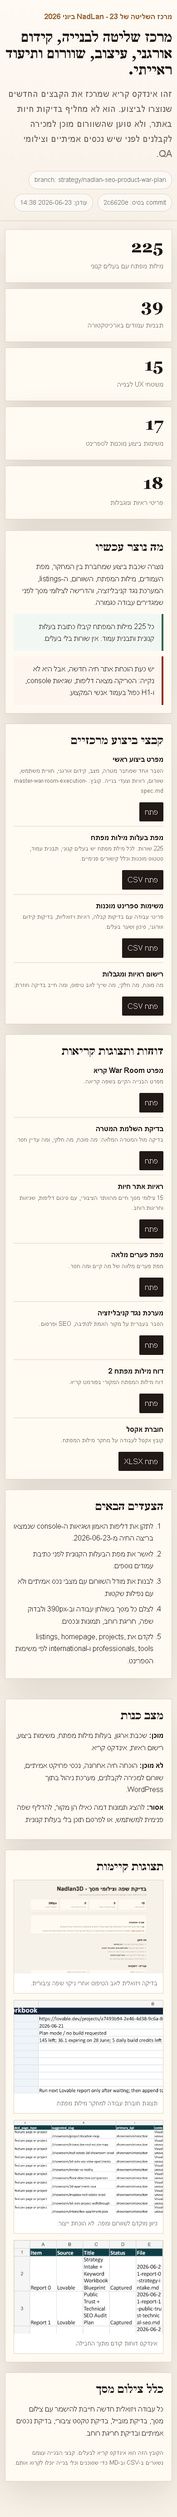
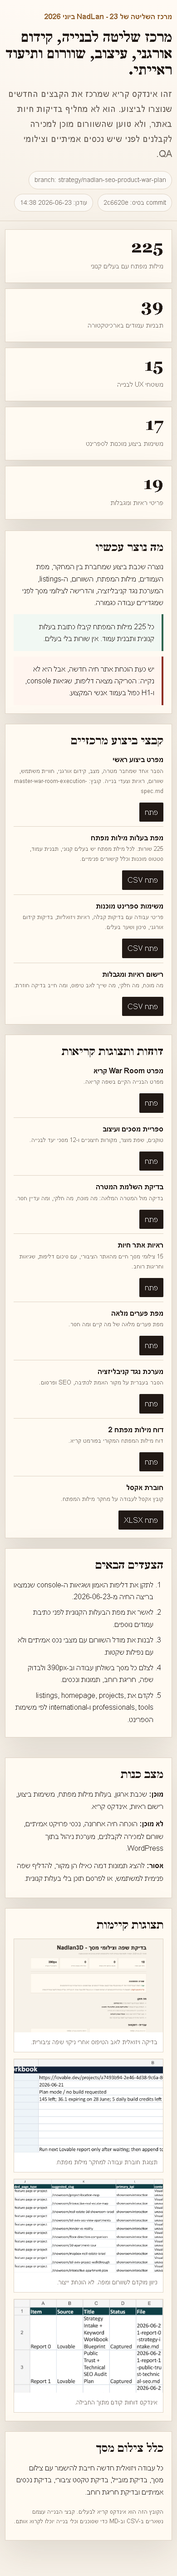
docs: add design system screen library

Changed region(s): [[0.0308, 0.0, 0.9846, 0.9635]]

diff --git a/strategy/war-room/design-system-screen-library-rtl.html b/strategy/war-room/design-system-screen-library-rtl.html
@@ -1,0 +1,35 @@
+<!doctype html>
+<html lang="he" dir="rtl">
+<head>
+<meta charset="utf-8"><meta name="viewport" content="width=device-width, initial-scale=1">
+<title>ספריית מסכים NadLan</title>
+<style>
+:root{--paper:#f7f1e8;--surface:#fffaf2;--ink:#211915;--muted:#746b63;--line:#ded2c3;--forest:#0f332c;--gold:#a7793b;--danger:#8f2e24;--ok:#2f654f}*{box-sizing:border-box}body{margin:0;background:var(--paper);color:var(--ink);font-family:Arial,'Noto Sans Hebrew',sans-serif;line-height:1.65}.wrap{width:min(1220px,calc(100% - 28px));margin:auto}header{padding:38px 0 26px;border-bottom:1px solid var(--line);background:linear-gradient(180deg,#fffaf4 0%,#f7f1e8 100%)}.eyebrow{color:var(--gold);font-weight:700;margin-bottom:10px}h1{font-family:Georgia,'Times New Roman',serif;font-size:clamp(36px,5.4vw,72px);line-height:1.04;margin:0 0 16px}.lead{font-size:19px;color:var(--muted);max-width:920px}.stats{display:grid;grid-template-columns:repeat(4,1fr);gap:12px;margin:22px 0}.stat{background:var(--surface);border:1px solid var(--line);padding:16px}.stat b{font-family:Georgia,'Times New Roman',serif;font-size:34px;display:block}.band{background:var(--surface);border:1px solid var(--line);padding:22px;margin:22px 0;box-shadow:0 16px 50px rgba(44,31,20,.09)}h2,h3{font-family:Georgia,'Times New Roman',serif;margin:0 0 12px}.tokens{display:grid;grid-template-columns:repeat(4,1fr);gap:10px}.token{border:1px solid var(--line);background:white;min-height:86px;padding:12px}.swatch{height:28px;border:1px solid var(--line);margin-bottom:8px}.sources{display:grid;grid-template-columns:repeat(3,1fr);gap:12px}.source{display:block;border:1px solid var(--line);background:white;padding:14px;text-decoration:none;color:inherit}.source span{display:block;color:var(--muted);font-size:14px}.blueprints{display:grid;grid-template-columns:repeat(3,1fr);gap:16px}.screen{background:var(--surface);border:1px solid var(--line);padding:18px;box-shadow:0 12px 34px rgba(44,31,20,.08)}.screen-head{display:flex;justify-content:space-between;gap:12px;border-bottom:1px solid var(--line);padding-bottom:10px;margin-bottom:12px}.screen-head span{color:var(--gold);font-weight:700;direction:ltr}.job{font-weight:700}.screen dl{display:grid;grid-template-columns:90px 1fr;gap:7px 10px;margin:0}.screen dt{color:var(--muted)}.screen dd{margin:0}.mockgrid{display:grid;grid-template-columns:1fr 1fr;gap:18px}.wire{border:1px solid var(--line);background:#fff;min-height:440px;padding:16px;position:relative;overflow:hidden}.wire.dark{background:var(--forest);color:white}.bar{height:36px;border:1px solid var(--line);background:#f2e8dc;margin-bottom:12px}.hero{height:110px;background:linear-gradient(135deg,#173d35,#d7b176);border-radius:4px;margin-bottom:12px}.row{display:grid;grid-template-columns:1fr 1fr;gap:10px;margin-bottom:10px}.block{height:70px;border:1px solid var(--line);background:#fbf6ef;padding:8px;color:var(--muted);font-size:13px}.dark .block{background:#153f36;color:#e9e1d6;border-color:#476b61}.media{height:150px;border:1px dashed var(--gold);display:grid;place-items:center;color:var(--muted);background:#fbf6ef;margin-bottom:12px;text-align:center}.label{display:inline-block;background:#f3ebde;border:1px solid var(--line);padding:5px 8px;margin:3px;font-size:13px}.cta{background:var(--ink);color:white;padding:10px 14px;display:inline-block;margin-top:8px}.warn{border-inline-start:4px solid var(--danger);background:#fff3ee;padding:14px;margin-top:16px}.ok{border-inline-start:4px solid var(--ok);background:#f0f8f3;padding:14px;margin-top:16px}@media(max-width:960px){.blueprints,.sources{grid-template-columns:1fr 1fr}.mockgrid{grid-template-columns:1fr}.stats,.tokens{grid-template-columns:1fr 1fr}}@media(max-width:560px){.wrap{width:calc(100% - 20px)}.blueprints,.sources,.stats,.tokens{grid-template-columns:1fr}.screen dl{grid-template-columns:1fr}.wire{min-height:auto}.row{grid-template-columns:1fr}}
+</style>
+</head>
+<body>
+<header><div class="wrap"><div class="eyebrow">NadLan - ספריית מסכים - 2026-06-23</div><h1>ספריית מסכים לבנייה, לא עוד דוח כללי.</h1><p class="lead">כאן מוגדרים השפה, הרכיבים והמסכים שצריך לבנות בפועל. כל מסך מחובר לקהל, לקידום אורגני, למובייל ולאמת נכסים, כדי שלא נבנה שוב תצוגה יפה בלי יכולת מכירה ואמון.</p></div></header>
+<main class="wrap">
+<div class="stats"><div class="stat"><b>12</b><span>מסכי יעד</span></div><div class="stat"><b>8</b><span>טוקנים מרכזיים</span></div><div class="stat"><b>6</b><span>מקורות חיצוניים</span></div><div class="stat"><b>390</b><span>שער מובייל חובה</span></div></div>
+<section class="band"><h2>כללי מותג</h2><p>שם העבודה הציבורי הוא NadLan. אין להשתמש בשם עברי סופי לפני בדיקה משפטית ודומיינית. הכיוון הוא פלטפורמת החלטות נדל"ן יוקרתית, רצינית ומבוססת ראיות, לא אתר ניסוי ולא הדגמת טכנולוגיה.</p><div class="ok">כל מסך חייב להראות מה אמיתי, מה חסר ומה דורש אישור מקור.</div><div class="warn">אסור להציג תמונות דמה, מודל, מחיר או זמינות כאילו הם חומר רשמי.</div></section>
+<section class="band"><h2>טוקנים</h2><div class="tokens"><div class="token"><div class="swatch" style="background:#f7f1e8"></div><strong>רקע</strong><br><span>#f7f1e8</span></div><div class="token"><div class="swatch" style="background:#fffaf2"></div><strong>משטח</strong><br><span>#fffaf2</span></div><div class="token"><div class="swatch" style="background:#211915"></div><strong>טקסט</strong><br><span>#211915</span></div><div class="token"><div class="swatch" style="background:#0f332c"></div><strong>יער</strong><br><span>#0f332c</span></div><div class="token"><div class="swatch" style="background:#a7793b"></div><strong>זהב</strong><br><span>#a7793b</span></div><div class="token"><div class="swatch" style="background:#746b63"></div><strong>משני</strong><br><span>#746b63</span></div><div class="token"><div class="swatch" style="background:#2f654f"></div><strong>מאומת</strong><br><span>#2f654f</span></div><div class="token"><div class="swatch" style="background:#8f2e24"></div><strong>חסם</strong><br><span>#8f2e24</span></div></div></section>
+<section class="band"><h2>מקורות מוצר חיצוניים</h2><div class="sources"><a class='source' href='https://www.zillow.com/3d-home/'><strong>Zillow 3D Home</strong><span>סיורים ותוכניות קומה אינטראקטיביות כנכס listing אמיתי.</span></a>
+<a class='source' href='https://www.zillow.com/agents/showcase/'><strong>Zillow Showcase</strong><span>עיצוב listing פרימיום, מיתוג ומיקום חזק בחיפוש ובמפה.</span></a>
+<a class='source' href='https://www.zillow.com/news/zillow-showcase-brings-listings-to-life/'><strong>Zillow SkyTour</strong><span>הקשר חיצוני, גובה, זוויות וסביבה כחלק מהחוויה.</span></a>
+<a class='source' href='https://matterport.com/'><strong>Matterport</strong><span>סיורי 3D, תוכניות קומה ונכסי שיווק מתוך תיעוד אחד.</span></a>
+<a class='source' href='https://www.homes.com/solutions/matterport'><strong>Homes.com Matterport</strong><span>דיגיטל twin וחוויית סיור עם תוכניות קומה מפורטות.</span></a>
+<a class='source' href='https://www.jamesedition.com/real_estate'><strong>JamesEdition</strong><span>אינדקס יוקרה בינלאומי עם סינון, תמונות חזקות ואמון סוכן.</span></a></div></section>
+<section class="band"><h2>שרטוטי מסכים</h2><div class="mockgrid"><div class="wire"><div class="bar"></div><div class="hero"></div><span class="label">חיפוש עיר או פרויקט</span><span class="label">פרויקטים</span><span class="label">אנשי מקצוע</span><div class="row"><div class="block">כרטיס פרויקט עם מקור נכס</div><div class="block">כלי החלטה עם מקור תאריך</div></div><div class="row"><div class="block">מסלול משקיע מחו"ל</div><div class="block">אמון וקניבליזציה</div></div><a class="cta">כניסה לפרויקטים</a></div><div class="wire dark"><div class="media">מודל או חזית רשמית בלבד</div><span class="label">חומר רשמי</span><span class="label">אומדן לא מחייב</span><div class="block">כרטיס דירה: קומה, חדרים, שטח, כיוון, מקור</div><div class="block">מפה, נוף, סיור ותוכנית רק אם קיימים</div><a class="cta">בקשת פרטים</a></div></div></section>
+<section class="band"><h2>ספריית מסכים מלאה</h2><div class="blueprints"><article class='screen'><div class='screen-head'><span>DS-001</span><strong>מערכת מותג</strong></div><p class='job'>לזהות את NadLan כפלטפורמת החלטות נדל&quot;ן יוקרתית ורצינית</p><dl><dt>קהל</dt><dd>כל המשתמשים</dd><dt>מבנה</dt><dd>לוגו, favicon, טיפוגרפיה, צבעים, כפתורים, טפסים ותוויות אמון</dd><dt>רכיבים</dt><dd>Header, ניווט, מעבר שפה, כרטיס, טופס, כפתור, תווית מקור</dd><dt>אמת נכסים</dt><dd>סימן המותג הוא כיוון עיצובי, לא אישור משפטי סופי</dd><dt>קידום</dt><dd>לא להשתמש בשם מותג תפוס בלי בדיקה</dd><dt>מובייל</dt><dd>Header נשבר נקי ב-390px בלי חפיפה</dd></dl></article>
+<article class='screen'><div class='screen-head'><span>DS-002</span><strong>דף הבית</strong></div><p class='job'>לנתב מהר לפרויקטים, קנייה, שכירות, אנשי מקצוע, כלים ומסלול משקיעים</p><dl><dt>קהל</dt><dd>קונים, מוכרים, קבלנים ומשקיעים</dd><dt>מבנה</dt><dd>חיפוש, פרויקטים, ערים, כלים, אנשי מקצוע, אמון ומסלול באנגלית</dd><dt>רכיבים</dt><dd>טאבי כוונה, חיפוש, כרטיסי נתיב, כרטיסי פרויקט, אזור הוכחות</dd><dt>אמת נכסים</dt><dd>מספרים וספירות מוצגים רק אם הם מאומתים</dd><dt>קידום</dt><dd>H1 יחיד, קישורים פנימיים ל-hubs, schema אתר וארגון</dd><dt>מובייל</dt><dd>חיפוש ראשון, כרטיסים בטור אחד, בלי hero ריק</dd></dl></article>
+<article class='screen'><div class='screen-head'><span>DS-003</span><strong>חיפוש listings</strong></div><p class='job'>להשוות מלאי מהר בלי להמציא נכסים</p><dl><dt>קהל</dt><dd>קונים ושוכרים</dd><dt>מבנה</dt><dd>פילטרים, מפה או רשימה, מספר תוצאות, כרטיסים, שמירת חיפוש ומצב ריק</dd><dt>רכיבים</dt><dd>Bottom sheet לפילטרים, כרטיס תוצאה, מצב מפה, שמירה, השוואה, יצירת קשר</dd><dt>אמת נכסים</dt><dd>כל listing צריך תמונה, מקור ותאריך עדכון או תווית חסר</dd><dt>קידום</dt><dd>קנוניקל לעמודי עיר, noindex לפילטרים דקים, ItemList רק כשתקף</dd><dt>מובייל</dt><dd>פילטרים במגירה, chips גלויים, מפה מאחורי טאב</dd></dl></article>
+<article class='screen'><div class='screen-head'><span>DS-004</span><strong>עמוד listing</strong></div><p class='job'>לבדוק נכס אחד וליצור קשר עם הקשר מלא</p><dl><dt>קהל</dt><dd>קונה, שוכר או משקיע</dd><dt>מבנה</dt><dd>מדיה, עובדות, מפה, מחיר, עדכון אחרון, מקור, dock יצירת קשר</dd><dt>רכיבים</dt><dd>גלריה, טבלת עובדות, תג מקור, WhatsApp, השוואה, שמירה</dd><dt>אמת נכסים</dt><dd>אין תמונה או מחיר בלי מקור</dd><dt>קידום</dt><dd>Offer/Residence רק עם נתונים מאומתים, breadcrumb וקנוניקל</dd><dt>מובייל</dt><dd>Dock יצירת קשר לא מכסה תוכן</dd></dl></article>
+<article class='screen'><div class='screen-head'><span>DS-005</span><strong>קטלוג פרויקטים</strong></div><p class='job'>למצוא פרויקטים חדשים ולראות מיד כמה הנכסים שלהם אמינים</p><dl><dt>קהל</dt><dd>קבלנים, קונים ומשקיעים מחו&quot;ל</dd><dt>מבנה</dt><dd>סינון עיר, יזם, סטטוס, מחיר משוער, שלב ואמת נכסים</dd><dt>רכיבים</dt><dd>כרטיס פרויקט, מד מוכנות נכסים, תג מקור, פילטר עיר, chips למשקיע</dd><dt>אמת נכסים</dt><dd>רשמי, קונספט או חסר מוצג לכל פרויקט</dd><dt>קידום</dt><dd>בעלות קנונית ל-hub פרויקטים ולעמודי עיר</dd><dt>מובייל</dt><dd>כרטיס פרויקט לא חותך מידע קריטי</dd></dl></article>
+<article class='screen'><div class='screen-head'><span>DS-006</span><strong>עמוד פרויקט</strong></div><p class='job'>להבין את הפרויקט לפני הכניסה לשוורום</p><dl><dt>קהל</dt><dd>קונים, קבלנים ומשקיעים</dd><dt>מבנה</dt><dd>עובדות, יזם, מיקום, מקור, כלל זמינות, CTA לשוורום ואמת נכסים</dd><dt>רכיבים</dt><dd>סרגל עובדות, מקור, תגי מצב, CTA, אנשי מקצוע קשורים</dd><dt>אמת נכסים</dt><dd>נדרש מקור רשמי. שדות חסרים מוצגים כחסרים</dd><dt>קידום</dt><dd>Project schema רק לעובדות מאומתות</dd><dt>מובייל</dt><dd>עובדות לפני שוורום, CTA נגיש ולא מכסה</dd></dl></article>
+<article class='screen'><div class='screen-head'><span>DS-007</span><strong>שוורום תלת ממד</strong></div><p class='job'>לבחור דירה, לראות הקשר, נוף, סיור ותוכנית, ואז לשלוח ליד איכותי</p><dl><dt>קהל</dt><dd>קבלנים, קונים ומשקיעים מחו&quot;ל</dd><dt>מבנה</dt><dd>מודל או חזית, בחירת דירה, כרטיס דירה, נוף, מפה, סיור, ליד</dd><dt>רכיבים</dt><dd>פאנל אמת נכסים, selector, כרטיס דירה, slot לסיור, slot למפה, מסלול יועצים</dd><dt>אמת נכסים</dt><dd>מודל, חזית, תוכנית וסיור מסווגים כרשמי, קונספט, חסר או שבור</dd><dt>קידום</dt><dd>לא לאנדקס בנפרד אם אין תוכן ייחודי וסריק</dd><dt>מובייל</dt><dd>מודל למעלה, כרטיס נבחר מתחת, בלי overlay שחוסם לחיצות</dd></dl></article>
+<article class='screen'><div class='screen-head'><span>DS-008</span><strong>אנשי מקצוע</strong></div><p class='job'>למצוא עזרה מאומתת בלי לערבב בין אמון למיקום בתשלום</p><dl><dt>קהל</dt><dd>קונים, מוכרים, קבלנים ומשקיעים</dd><dt>מבנה</dt><dd>קטגוריה, עיר, התמחות, מדיניות אימות, route לליד</dd><dt>רכיבים</dt><dd>כרטיס בעל מקצוע, תג רישום, גילוי, CTA, מצב ריק</dd><dt>אמת נכסים</dt><dd>רישיון, פנקס או מקור נדרש לפני טענה חזקה</dd><dt>קידום</dt><dd>Person/LocalBusiness רק כשמאומת, לתקן H1 כפול</dd><dt>מובייל</dt><dd>מגירת פילטרים, כרטיסים בטור אחד, בלי layout רחב כפוי</dd></dl></article>
+<article class='screen'><div class='screen-head'><span>DS-009</span><strong>כלים ומחשבונים</strong></div><p class='job'>להעריך החלטות בלי להציג אותן כשמאות, ייעוץ משפטי או ייעוץ פיננסי</p><dl><dt>קהל</dt><dd>קונים, מוכרים ומשקיעים</dd><dt>מבנה</dt><dd>בחירת כלי, קלטים, הנחות, טווח תוצאה, מקור ותאריך, route לאיש מקצוע</dd><dt>רכיבים</dt><dd>טופס שלבים, פאנל הנחות, כרטיס תוצאה, תג מקור, CTA</dd><dt>אמת נכסים</dt><dd>נוסחה ומקור רשמי או תאריך מקור נדרשים</dd><dt>קידום</dt><dd>SoftwareApplication ו-FAQ רק כשהתוכן גלוי ומאומת</dd><dt>מובייל</dt><dd>קלטים גדולים, הנחות גלויות</dd></dl></article>
+<article class='screen'><div class='screen-head'><span>DS-010</span><strong>משקיעים מחו&quot;ל</strong></div><p class='job'>להסביר רכישה מרחוק, פרויקטים, מס, משכנתא וקונסיירז באנגלית אמינה</p><dl><dt>קהל</dt><dd>רוכשים מחו&quot;ל וישראלים שמשקיעים בחו&quot;ל</dd><dt>מבנה</dt><dd>EN hub, ערים, פרויקטים, מס, משכנתא, משפט, concierge, שפה</dd><dt>רכיבים</dt><dd>מעבר שפה, כרטיסי חשש לפי מדינה, CTA, פאנל מקור</dd><dt>אמת נכסים</dt><dd>מס, משפט וכספים דורשים בדיקה לפני טענה חזקה</dd><dt>קידום</dt><dd>hreflang וקנוניקל, בלי תרגום אוטומטי דל</dd><dt>מובייל</dt><dd>LTR טבעי, לא עברית הפוכה</dd></dl></article>
+<article class='screen'><div class='screen-head'><span>DS-011</span><strong>אינטייק לקבלנים</strong></div><p class='job'>להעלות נכסי פרויקט רשמיים ולראות מה חסר לפני פרסום</p><dl><dt>קהל</dt><dd>יזמים ומשווקי פרויקטים</dd><dt>מבנה</dt><dd>זהות פרויקט, העלאות מדיה, נתוני דירות, מקורות, מסלול תשלום, סטטוס אישור</dd><dt>רכיבים</dt><dd>Checklist נכסים, שורות העלאה, score מוכנות, tier, הערות בודק</dd><dt>אמת נכסים</dt><dd>כל נכס מקבל סטטוס: רשמי, קונספט, חסר או נדחה</dd><dt>קידום</dt><dd>פרטי עד אישור, noindex</dd><dt>מובייל</dt><dd>טאבלט אפשרי, desktop הוא ראשי</dd></dl></article>
+<article class='screen'><div class='screen-head'><span>DS-012</span><strong>Admin War Room</strong></div><p class='job'>לראות בעלות מילות מפתח, דוחות, צילומים, סטטוס בנייה ושערי פרסום</p><dl><dt>קהל</dt><dd>בעלים, עורך וסוכנים</dd><dt>מבנה</dt><dd>Keyword registry, evidence, screenshots, backlog, החלטות ושערי פרסום</dd><dt>רכיבים</dt><dd>לוח סטטוס, טבלת registry, גלריית צילומים, יומן החלטות</dd><dt>אמת נכסים</dt><dd>פרטי בלבד, לא ציבורי</dd><dt>קידום</dt><dd>Admin בלבד, noindex והרשאות</dd><dt>מובייל</dt><dd>Desktop ראשי, mobile קריא לסקירה</dd></dl></article></div></section>
+</main></body></html>

diff --git a/strategy/war-room/objective-completion-audit-rtl.html b/strategy/war-room/objective-completion-audit-rtl.html
@@ -1,11 +1,11 @@
-<!doctype html><html lang="he" dir="rtl"><head><meta charset="utf-8"><meta name="viewport" content="width=device-width, initial-scale=1"><title>בדיקת השלמת מרכז השליטה</title><style>:root{--paper:#f7f1e8;--ink:#211915;--muted:#746b63;--line:#ded2c3;--card:#fffaf2;--ok:#2f654f;--warn:#8f5d2a}*{box-sizing:border-box}body{margin:0;background:var(--paper);color:var(--ink);font-family:Arial,'Noto Sans Hebrew',sans-serif;line-height:1.65}.wrap{width:min(1120px,calc(100% - 28px));margin:auto}header{padding:36px 0 24px;border-bottom:1px solid var(--line)}h1{font-family:Georgia,'Times New Roman',serif;font-size:clamp(34px,5vw,64px);line-height:1.05;margin:0 0 14px}.lead{color:var(--muted);font-size:19px;max-width:920px}.summary{display:grid;grid-template-columns:repeat(3,1fr);gap:12px;margin:24px 0}.box{background:var(--card);border:1px solid var(--line);padding:18px}.box b{font-size:34px;font-family:Georgia,'Times New Roman',serif}.req{background:var(--card);border:1px solid var(--line);padding:18px;margin:14px 0;box-shadow:0 14px 40px rgba(44,31,20,.08)}.req.ok{border-inline-start:5px solid var(--ok)}.req.warn{border-inline-start:5px solid var(--warn)}h2,h3{font-family:Georgia,'Times New Roman',serif;margin:0 0 10px}code{direction:ltr;unicode-bidi:embed;display:inline-block;max-width:100%;overflow-wrap:anywhere;color:#5f554e}.links a{display:inline-block;background:#211915;color:#fff;padding:9px 12px;margin:5px 0 5px 8px;text-decoration:none}@media(max-width:760px){.summary{grid-template-columns:1fr}}</style></head><body><header><div class="wrap"><h1>בדיקת השלמת מרכז השליטה מול המטרה המלאה.</h1><p class="lead">הקובץ הזה לא מגדיר הצלחה מחדש. הוא בודק את המטרה המקורית פריט-פריט ומפריד בין מה שמוכח, מה שחלקי, ומה שעוד חסר.</p><div class="links"><a href="owner-output-index-rtl.html">אינדקס ביצוע</a><a href="current-site-evidence-2026-06-23-rtl.html">ראיות אתר חיות</a><a href="objective-completion-audit.csv">CSV</a></div></div></header><main class="wrap"><div class="summary"><div class="box"><b>11</b><br>דרישות שנבדקו</div><div class="box"><b>5</b><br>מוכחות או מיובאות</div><div class="box"><b>6</b><br>חלקיות או לא מוכנות לייצור</div></div><article class='req warn'><h3>REQ-01 - ראיות אתר חיות</h3><p><b>סטטוס:</b> חלקי</p><p><b>ראיה:</b> <code>docs/qa/screenshots/stage1-public-trust-current-2026-06-23/report.json; strategy/war-room/current-site-evidence-2026-06-23-rtl.html</code></p><p><b>מה זה מוכיח:</b> יש ריצה חיה חדשה עם 15 צילומי מסך מחמישה משטחי אתר בשלושה גדלים.</p><p><b>פער:</b> הריצה עדיין מצאה 78 התראות דליפה, 33 התראות גלויות ו-3 שגיאות console. לכן זה לא אישור אמון סופי.</p><p><b>צעד הבא:</b> לתקן דליפות גלויות, את שגיאת אנשי המקצוע, ואת כפילות ה-H1, ואז להריץ שוב.</p></article>
+<!doctype html><html lang="he" dir="rtl"><head><meta charset="utf-8"><meta name="viewport" content="width=device-width, initial-scale=1"><title>בדיקת השלמת מרכז השליטה</title><style>:root{--paper:#f7f1e8;--ink:#211915;--muted:#746b63;--line:#ded2c3;--card:#fffaf2;--ok:#2f654f;--warn:#8f5d2a}*{box-sizing:border-box}body{margin:0;background:var(--paper);color:var(--ink);font-family:Arial,'Noto Sans Hebrew',sans-serif;line-height:1.65}.wrap{width:min(1120px,calc(100% - 28px));margin:auto}header{padding:36px 0 24px;border-bottom:1px solid var(--line)}h1{font-family:Georgia,'Times New Roman',serif;font-size:clamp(34px,5vw,64px);line-height:1.05;margin:0 0 14px}.lead{color:var(--muted);font-size:19px;max-width:920px}.summary{display:grid;grid-template-columns:repeat(3,1fr);gap:12px;margin:24px 0}.box{background:var(--card);border:1px solid var(--line);padding:18px}.box b{font-size:34px;font-family:Georgia,'Times New Roman',serif}.req{background:var(--card);border:1px solid var(--line);padding:18px;margin:14px 0;box-shadow:0 14px 40px rgba(44,31,20,.08)}.req.ok{border-inline-start:5px solid var(--ok)}.req.warn{border-inline-start:5px solid var(--warn)}h2,h3{font-family:Georgia,'Times New Roman',serif;margin:0 0 10px}code{direction:ltr;unicode-bidi:embed;display:inline-block;max-width:100%;overflow-wrap:anywhere;color:#5f554e}.links a{display:inline-block;background:#211915;color:#fff;padding:9px 12px;margin:5px 0 5px 8px;text-decoration:none}@media(max-width:760px){.summary{grid-template-columns:1fr}}</style></head><body><header><div class="wrap"><h1>בדיקת השלמת מרכז השליטה מול המטרה המלאה.</h1><p class="lead">הקובץ הזה לא מגדיר הצלחה מחדש. הוא בודק את המטרה המקורית פריט-פריט ומפריד בין מה שמוכח, מה שחלקי, ומה שעוד חסר.</p><div class="links"><a href="owner-output-index-rtl.html">אינדקס ביצוע</a><a href="current-site-evidence-2026-06-23-rtl.html">ראיות אתר חיות</a><a href="design-system-screen-library-rtl.html">ספריית מסכים</a><a href="objective-completion-audit.csv">CSV</a></div></div></header><main class="wrap"><div class="summary"><div class="box"><b>11</b><br>דרישות שנבדקו</div><div class="box"><b>6</b><br>מוכחות או מפרט נוכחי</div><div class="box"><b>5</b><br>חלקיות או לא מוכנות לייצור</div></div><article class='req warn'><h3>REQ-01 - ראיות אתר חיות</h3><p><b>סטטוס:</b> חלקי</p><p><b>ראיה:</b> <code>docs/qa/screenshots/stage1-public-trust-current-2026-06-23/report.json; strategy/war-room/current-site-evidence-2026-06-23-rtl.html</code></p><p><b>מה זה מוכיח:</b> יש ריצה חיה חדשה עם 15 צילומי מסך מחמישה משטחי אתר בשלושה גדלים.</p><p><b>פער:</b> הריצה עדיין מצאה 78 התראות דליפה, 33 התראות גלויות ו-3 שגיאות console. לכן זה לא אישור אמון סופי.</p><p><b>צעד הבא:</b> לתקן דליפות גלויות, את שגיאת אנשי המקצוע ואת כפילות ה-H1, ואז להריץ שוב.</p></article>
 <article class='req ok'><h3>REQ-02 - תוצרי Lovable ואסטרטגיה חיצונית</h3><p><b>סטטוס:</b> קיים ומיובא</p><p><b>ראיה:</b> <code>handoff/lovable/2026-06-23-war-room-sync/source-manifest.md; handoff/lovable/2026-06-23-war-room-sync/exports/</code></p><p><b>מה זה מוכיח:</b> תוצרי Lovable מיובאים לריפו, וה-commit של strategy-hub מתועד.</p><p><b>פער:</b> לא היה commit חדש מ-Lovable בריצה הזאת. Lovable הוא כלי עזר, לא מקור האמת.</p><p><b>צעד הבא:</b> לייבא מחדש רק כשיש commit חדש ב-GitHub של strategy-hub.</p></article>
 <article class='req ok'><h3>REQ-03 - ארכיטקטורת עמודים</h3><p><b>סטטוס:</b> מוכח כמפרט נוכחי</p><p><b>ראיה:</b> <code>strategy/war-room/page-architecture-map.csv</code></p><p><b>מה זה מוכיח:</b> יש 39 תבניות עמודים: כסף, תמיכה, כלים, פרויקטים, אנשי מקצוע, משקיעים מחו&quot;ל ואמון.</p><p><b>פער:</b> זו מפת בנייה. היא לא מוכיחה שכל route כבר קיים באתר החי.</p><p><b>צעד הבא:</b> לקשור כל PR וכל תוכן ל-page_id.</p></article>
 <article class='req ok'><h3>REQ-04 - מיפוי מילת מפתח לעמוד</h3><p><b>סטטוס:</b> מוכח כמפרט נוכחי</p><p><b>ראיה:</b> <code>strategy/war-room/keyword-to-page-owner.csv</code></p><p><b>מה זה מוכיח:</b> כל 225 מילות המפתח קיבלו בעלים קנוני, כתובת, תבנית, סטטוס וכלל קישורים.</p><p><b>פער:</b> עדיין צריך אימות GSC/Semrush לפני תחזיות הכנסה ותיעדוף סופי.</p><p><b>צעד הבא:</b> להוסיף טבלאות GSC/Semrush ולעבור על סדר העדיפות.</p></article>
-<article class='req warn'><h3>REQ-05 - מפרט listings</h3><p><b>סטטוס:</b> קיים, לא בנוי</p><p><b>ראיה:</b> <code>strategy/10-listings-ux-spec.md; strategy/war-room/ux-build-spec.csv; strategy/war-room/sprint-ready-backlog.csv</code></p><p><b>מה זה מוכיח:</b> דרישות card, search, detail ושקיפות מסחרית מתועדות.</p><p><b>פער:</b> זה לא מוכיח שממשק listings ייצורי כבר נבנה או אושר ויזואלית.</p><p><b>צעד הבא:</b> לבנות slice ראשון של listing card/search ולצלם mobile ו-desktop.</p></article>
-<article class='req warn'><h3>REQ-06 - מפרט פרויקט ושוורום</h3><p><b>סטטוס:</b> קיים, לא מוכן לקבלנים</p><p><b>ראיה:</b> <code>strategy/11-project-showroom-3d-spec.md; docs/qa/screenshots/stage1-public-trust-current-2026-06-23/dimri-yama-sde-dov-mobile-390.png</code></p><p><b>מה זה מוכיח:</b> דרישות השוורום קיימות ויש ראיית מצב חיה לעמוד פרויקט.</p><p><b>פער:</b> העמוד החי עדיין לא ברמת מכירה לקבלן. חסרים נכסים אמיתיים ומודל מצבים מלא.</p><p><b>צעד הבא:</b> לבנות state model עם asset truth ולצלם כל מצב.</p></article>
-<article class='req warn'><h3>REQ-07 - כיוון עיצובי עם רפרנסים ותצוגות</h3><p><b>סטטוס:</b> חלקי</p><p><b>ראיה:</b> <code>strategy/lovable/preview-3d-map-showroom.png; strategy/war-room/nadlan-war-room-spec-rtl.html; handoff/codex/2026-06-23-public-language-cleanup/exports/public-language-cleanup-visual-qa.html</code></p><p><b>מה זה מוכיח:</b> יש רפרנסים, צילומי prototype וכיוון עיצובי קריא.</p><p><b>פער:</b> עדיין אין מערכת מותג סופית, תמונות פרויקט אמיתיות, החלטת favicon/logo וספריית מסכים WordPress-ready.</p><p><b>צעד הבא:</b> לייצר design system סופי וספריית מסכים לפני redesign ייצור.</p></article>
+<article class='req warn'><h3>REQ-05 - מפרט listings</h3><p><b>סטטוס:</b> קיים, לא בנוי</p><p><b>ראיה:</b> <code>strategy/10-listings-ux-spec.md; strategy/war-room/ux-build-spec.csv; strategy/war-room/sprint-ready-backlog.csv; strategy/war-room/design-system-screen-library-rtl.html</code></p><p><b>מה זה מוכיח:</b> דרישות card, search, detail, שקיפות מסחרית ומסך יעד מתועדות.</p><p><b>פער:</b> זה לא מוכיח שממשק listings ייצורי כבר נבנה או אושר ויזואלית באתר.</p><p><b>צעד הבא:</b> לבנות slice ראשון של listing card/search ולצלם mobile ו-desktop.</p></article>
+<article class='req warn'><h3>REQ-06 - מפרט פרויקט ושוורום</h3><p><b>סטטוס:</b> קיים, לא מוכן לקבלנים</p><p><b>ראיה:</b> <code>strategy/11-project-showroom-3d-spec.md; strategy/war-room/design-system-screen-library-rtl.html; docs/qa/screenshots/stage1-public-trust-current-2026-06-23/dimri-yama-sde-dov-mobile-390.png</code></p><p><b>מה זה מוכיח:</b> דרישות השוורום קיימות ויש ראיית מצב חיה לעמוד פרויקט וספריית מסך יעד.</p><p><b>פער:</b> העמוד החי עדיין לא ברמת מכירה לקבלן. חסרים נכסים אמיתיים ומודל מצבים מלא.</p><p><b>צעד הבא:</b> לבנות state model עם asset truth ולצלם כל מצב.</p></article>
+<article class='req ok'><h3>REQ-07 - כיוון עיצובי עם רפרנסים ותצוגות</h3><p><b>סטטוס:</b> מפרט נוכחי קיים, לא ייצור</p><p><b>ראיה:</b> <code>strategy/war-room/design-system-screen-library-rtl.html; strategy/war-room/design-system-screen-library.csv; strategy/war-room/design-system-screen-library-preview.png; strategy/lovable/preview-3d-map-showroom.png</code></p><p><b>מה זה מוכיח:</b> יש טוקנים, חוקי שפה ציבורית, מקורות מוצר חיצוניים, 12 מסכי יעד וצילומי בדיקה.</p><p><b>פער:</b> זה עדיין מפרט. הוא לא מחליף יישום WordPress, נכסי פרויקט אמיתיים או אישור משפטי ומיתוג סופי.</p><p><b>צעד הבא:</b> להשתמש בספריית המסכים כחוזה לבניית homepage, listings, projects ו-showroom.</p></article>
 <article class='req ok'><h3>REQ-08 - Backlog לביצוע</h3><p><b>סטטוס:</b> מוכח כמפרט נוכחי</p><p><b>ראיה:</b> <code>strategy/war-room/sprint-ready-backlog.csv; strategy/implementation-plan.csv</code></p><p><b>מה זה מוכיח:</b> יש 17 משימות ספרינט מוכנות ותוכנית יישום רחבה יותר.</p><p><b>פער:</b> Backlog הוא תוכנית עבודה, לא הוכחת ביצוע.</p><p><b>צעד הבא:</b> לבצע לפי סדר: אמון P0, אישור keyword registry, שוורום, listings, homepage.</p></article>
-<article class='req ok'><h3>REQ-09 - תוצרים קריאים לבעלים</h3><p><b>סטטוס:</b> מוכח כמפרט נוכחי</p><p><b>ראיה:</b> <code>strategy/war-room/owner-output-index-rtl.html; strategy/war-room/objective-completion-audit-rtl.html; strategy/war-room/current-site-evidence-2026-06-23-rtl.html</code></p><p><b>מה זה מוכיח:</b> יש HTML קריא לבעלים שמרכז את המפרט, הראיות והפערים.</p><p><b>פער:</b> חלק מהקבצים נשארים CSV/MD בכוונה כדי שסוכנים וכלי בנייה יוכלו לקרוא אותם.</p><p><b>צעד הבא:</b> להמשיך ליצור תקצירי HTML בעברית לכל חבילת עבודה גדולה.</p></article>
-<article class='req warn'><h3>REQ-10 - מוכנות לבנייה צעד-אחר-צעד</h3><p><b>סטטוס:</b> חלקי</p><p><b>ראיה:</b> <code>strategy/war-room/master-war-room-execution-spec.md; strategy/war-room/sprint-ready-backlog.csv</code></p><p><b>מה זה מוכיח:</b> יש סדר פעולות ושערי קבלה מעשיים.</p><p><b>פער:</b> לא כל תנאי הקדם סגורים: אמון חי, נכסים אמיתיים, עיצוב סופי ומערכת admin עדיין פתוחים.</p><p><b>צעד הבא:</b> להשתמש בשערי הספרינט כרשימת ביצוע מחייבת.</p></article>
+<article class='req ok'><h3>REQ-09 - תוצרים קריאים לבעלים</h3><p><b>סטטוס:</b> מוכח כמפרט נוכחי</p><p><b>ראיה:</b> <code>strategy/war-room/owner-output-index-rtl.html; strategy/war-room/objective-completion-audit-rtl.html; strategy/war-room/current-site-evidence-2026-06-23-rtl.html; strategy/war-room/design-system-screen-library-rtl.html</code></p><p><b>מה זה מוכיח:</b> יש HTML קריא לבעלים שמרכז את המפרט, הראיות, הפערים וספריית המסכים.</p><p><b>פער:</b> חלק מהקבצים נשארים CSV/MD בכוונה כדי שסוכנים וכלי בנייה יוכלו לקרוא אותם.</p><p><b>צעד הבא:</b> להמשיך ליצור תקצירי HTML בעברית לכל חבילת עבודה גדולה.</p></article>
+<article class='req warn'><h3>REQ-10 - מוכנות לבנייה צעד-אחר-צעד</h3><p><b>סטטוס:</b> חלקי</p><p><b>ראיה:</b> <code>strategy/war-room/master-war-room-execution-spec.md; strategy/war-room/sprint-ready-backlog.csv; strategy/war-room/design-system-screen-library.csv</code></p><p><b>מה זה מוכיח:</b> יש סדר פעולות, שערי קבלה וספריית מסכים לבנייה.</p><p><b>פער:</b> לא כל תנאי הקדם סגורים: אמון חי, נכסים אמיתיים ומערכת admin עדיין פתוחים.</p><p><b>צעד הבא:</b> להשתמש בשערי הספרינט ובספריית המסכים כרשימת ביצוע מחייבת.</p></article>
 <article class='req warn'><h3>REQ-11 - שיטה חוזרת לאתרים אחרים</h3><p><b>סטטוס:</b> חלקי</p><p><b>ראיה:</b> <code>handoff/shared-knowledge/skills/; C:/Users/janana/.codex/skills/nadlan-3d-ai-replication/SKILL.md</code></p><p><b>מה זה מוכיח:</b> יש skill ותיקיות ידע שמגדירים תהליך חוזר.</p><p><b>פער:</b> עדיין אין workflow בלחיצה אחת שמעתיק את זה לאתר WordPress אחר.</p><p><b>צעד הבא:</b> אחרי שנדלן מתייצב, לארוז bootstrap script ותבנית בעלים.</p></article></main></body></html>

diff --git a/strategy/war-room/owner-output-index-rtl.html b/strategy/war-room/owner-output-index-rtl.html
@@ -105,7 +105,7 @@
       <div class="stat"><b>39</b><span>תבניות עמודים בארכיטקטורה</span></div>
       <div class="stat"><b>15</b><span>משטחי UX לבנייה</span></div>
       <div class="stat"><b>17</b><span>משימות ביצוע מוכנות לספרינט</span></div>
-      <div class="stat"><b>18</b><span>פריטי ראיות ומגבלות</span></div>
+      <div class="stat"><b>19</b><span>פריטי ראיות ומגבלות</span></div>
     </div>
     <div class="grid">
       <div>
@@ -128,6 +128,7 @@
           <h2>דוחות ותצוגות קריאות</h2>
           <div class="links">
             <a class="linkrow" href="nadlan-war-room-spec-rtl.html"><span><strong>מפרט War Room קריא</strong><small>מפרט הבנייה הקיים בשפה קריאה.</small></span><span class="open">פתח</span></a>
+            <a class="linkrow" href="design-system-screen-library-rtl.html"><span><strong>ספריית מסכים ועיצוב</strong><small>טוקנים, שפת מוצר, מקורות חיצוניים ו-12 מסכי יעד לבנייה.</small></span><span class="open">פתח</span></a>
             <a class="linkrow" href="objective-completion-audit-rtl.html"><span><strong>בדיקת השלמת המטרה</strong><small>בדיקה מול המטרה המלאה: מה מוכח, מה חלקי, ומה עדיין חסר.</small></span><span class="open">פתח</span></a>
             <a class="linkrow" href="current-site-evidence-2026-06-23-rtl.html"><span><strong>ראיות אתר חיות</strong><small>15 צילומי מסך חיים מהאתר הציבורי, עם סיכום דליפות, שגיאות וחריגות רוחב.</small></span><span class="open">פתח</span></a>
             <a class="linkrow" href="full-war-room-gap-map-rtl.html"><span><strong>מפת פערים מלאה</strong><small>מפת פערים מלאה של מה קיים ומה חסר.</small></span><span class="open">פתח</span></a>

diff --git a/strategy/war-room/design-system-screen-library.md b/strategy/war-room/design-system-screen-library.md
@@ -1,0 +1,119 @@
+# NadLan Design System And Screen Library
+
+Date: 2026-06-23  
+Scope: owner-readable and build-ready design specification. This is not runtime code.
+
+## Purpose
+
+This file converts the strategy, live evidence, Lovable prototype output, and current-site QA into a screen library that Codex can implement later without guessing. It does not claim that the production redesign is already built.
+
+## External Product Evidence Used
+
+- Zillow 3D Home: virtual tours and interactive floor plans are listing assets, not decoration. Source: https://www.zillow.com/3d-home/
+- Zillow Showcase: elevated listing design, branding, search/map priority, and serious-buyer reach are treated as a paid premium listing product. Source: https://www.zillow.com/agents/showcase/
+- Zillow SkyTour article: exterior and setting context matter, including angles, elevation, surroundings, and neighborhood connection. Source: https://www.zillow.com/news/zillow-showcase-brings-listings-to-life/
+- Matterport: one capture can support 3D tours, floor plans, photos, and marketing assets. Source: https://matterport.com/
+- Homes.com Matterport: digital twins and detailed floor plans create a more realistic touring experience. Source: https://www.homes.com/solutions/matterport
+- JamesEdition real estate: luxury property discovery depends on curated global inventory, strong imagery, filters, trusted agents, and international orientation. Source: https://www.jamesedition.com/real_estate
+
+## Brand Direction
+
+Working public name: NadLan. Do not use a final Hebrew brand such as Nadlan Chacham until legal/domain and competitor checks are complete.
+
+Visual position:
+
+- Premium real-estate decision platform.
+- Hebrew-first, with native English investor pages.
+- Product and proof before marketing copy.
+- Calm, serious, data-backed, not a decorative tech demo.
+
+Logo and favicon direction:
+
+- Mark: compact geometric building/floor plate plus map pin signal.
+- Favicon: simple dark mark on warm paper background, readable at 32px.
+- Avoid generic house icons and avoid an AI-themed name or robot mark.
+
+## Design Tokens
+
+Color tokens:
+
+- `--nl-paper`: `#f7f1e8`, warm page background.
+- `--nl-surface`: `#fffaf2`, panels and cards.
+- `--nl-ink`: `#211915`, primary text.
+- `--nl-muted`: `#746b63`, secondary text.
+- `--nl-line`: `#ded2c3`, borders.
+- `--nl-forest`: `#0f332c`, premium project/action surfaces.
+- `--nl-gold`: `#a7793b`, emphasis, not dominant decoration.
+- `--nl-danger`: `#8f2e24`, blockers and missing proof.
+- `--nl-ok`: `#2f654f`, verified states.
+
+Typography:
+
+- Hebrew heading: high-contrast serif or equivalent Hebrew-capable display face.
+- Hebrew body: clean sans-serif with strong numerals and form readability.
+- English investor pages: native LTR rhythm, not mirrored Hebrew layout.
+- No viewport-based font scaling. Use responsive layout, not fluid font-size formulas.
+
+Spacing and shape:
+
+- Cards: 4px to 8px radius only.
+- Buttons: stable 44px minimum tap target.
+- No nested UI cards except repeated item cards inside a page section.
+- Dense operational surfaces should avoid oversized hero-only composition.
+
+## Public Language Rules
+
+Public UI must not expose internal terms such as implementation notes, file formats, ranking internals, or prompt language. If a state needs explanation, use buyer-facing Hebrew or English:
+
+- Official asset: "חומר רשמי מהיזם".
+- Concept asset: "הדמיה לבדיקה, לא חומר רשמי".
+- Missing asset: "חסר חומר רשמי".
+- Paid placement: "מיקום בתשלום" or legally reviewed equivalent.
+- Estimate: "אומדן לא מחייב" with source note.
+
+## Asset Truth System
+
+Every visual or data asset must be classified before public use:
+
+- official: approved by developer, owner, registry, or official source.
+- concept: internal design or planning material, clearly labeled.
+- reused: from existing site/repo, with source path.
+- missing: needed but unavailable.
+- broken: expected but failed to load.
+
+This applies to project images, GLB models, facade/elevation assets, floor plans, apartment plans, map data, virtual tours, consultant profiles, logos, favicon, and Open Graph images.
+
+## Screen Library
+
+See `design-system-screen-library.csv` for the structured build table. The required surfaces are:
+
+1. Brand system.
+2. Homepage.
+3. Listing search.
+4. Listing detail.
+5. Projects catalog.
+6. Project page.
+7. 3D showroom.
+8. Professionals directory.
+9. Tools and calculators.
+10. International investor pages.
+11. Contractor intake.
+12. Admin war room.
+
+## Implementation Gates
+
+A screen is not accepted until:
+
+- desktop and 390px screenshots are saved,
+- no horizontal overflow is visible,
+- no internal language leaks into public UI,
+- asset-truth labels are correct,
+- SEO owner page is known,
+- required schema/canonical/noindex rules are documented,
+- owner-facing screenshot review exists.
+
+## What This Improves
+
+This file closes part of the visual-design gap identified in `objective-completion-audit.csv`. It gives Codex a screen library and token layer to build from.
+
+It does not complete the full redesign because real project assets, live trust fixes, and production implementation screenshots still remain.

diff --git a/strategy/war-room/lovable-design-validation-prompt.md b/strategy/war-room/lovable-design-validation-prompt.md
@@ -1,0 +1,63 @@
+# Lovable Design Validation Prompt
+
+Use this only if the owner decides to spend Lovable credits. Do not run it automatically.
+
+## Goal
+
+Review the NadLan design-system and screen-library package as an advisor. Do not rebuild the app unless explicitly approved by the owner in Lovable. Produce critique, missing states, mobile risks, and a clearer screen-by-screen implementation specification.
+
+## Repository And Folder Rules
+
+Write all outputs to:
+
+`handoff/lovable/2026-06-23-war-room-sync/reports/design-validation/`
+
+If screenshots or exports are created, put them under:
+
+- `handoff/lovable/2026-06-23-war-room-sync/screenshots/design-validation/`
+- `handoff/lovable/2026-06-23-war-room-sync/exports/design-validation/`
+
+Do not overwrite `handoff/codex/`, `handoff/claude/`, or existing reports.
+
+## Read First
+
+Read these files before responding:
+
+1. `strategy/war-room/design-system-screen-library.md`
+2. `strategy/war-room/design-system-screen-library.csv`
+3. `strategy/war-room/design-system-screen-library-rtl.html`
+4. `strategy/war-room/objective-completion-audit.csv`
+5. `strategy/war-room/current-site-evidence-2026-06-23.csv`
+6. `strategy/war-room/keyword-to-page-owner.csv`
+7. `strategy/war-room/page-architecture-map.csv`
+8. `strategy/11-project-showroom-3d-spec.md`
+9. `strategy/10-listings-ux-spec.md`
+
+## Required Output
+
+Create these files:
+
+1. `design-validation-report.md`
+2. `screen-gap-table.csv`
+3. `mobile-risk-table.csv`
+4. `asset-truth-risk-table.csv`
+5. `codex-implementation-notes.md`
+6. `owner-summary-rtl.html`
+
+## Review Requirements
+
+Check:
+
+- Whether the design system can support homepage, listings, listing detail, projects catalog, project page, 3D showroom, professionals, tools, international pages, contractor intake, and admin war room.
+- Whether public copy leaks internal language.
+- Whether any screen implies unverified official assets, unverified availability, unverified prices, or unverified 3D.
+- Whether 390px mobile is realistic.
+- Whether the design is premium enough for contractors and foreign investors.
+- Whether every proposed screen can map back to a page ID or keyword owner.
+- Whether the design avoids cannibalization by keeping one canonical owner per money keyword.
+
+## Tone And Constraints
+
+Be direct and critical. Do not flatter the current design. Do not say something is out of scope because the competition is strong. NadLan is going after the whole Israeli real-estate market and international investor demand over time.
+
+Do not create production code in this run unless explicitly approved by the owner.

diff --git a/strategy/war-room/design-system-screen-library-visual-qa.md b/strategy/war-room/design-system-screen-library-visual-qa.md
@@ -1,0 +1,46 @@
+# Design System Screen Library Visual QA
+
+Date: 2026-06-23  
+Artifact: `strategy/war-room/design-system-screen-library-rtl.html`
+
+## Screenshots Saved
+
+- Desktop: `strategy/war-room/design-system-screen-library-preview.png`
+- Mobile 390px: `strategy/war-room/design-system-screen-library-preview-mobile.png`
+
+## Visual Review
+
+Desktop:
+
+- The report is readable as an owner-facing screen library.
+- The top section shows the purpose, screen count, token count, external source count, and 390px mobile gate.
+- The token panel is visible and does not depend on a single-color palette.
+- The screen cards are now Hebrew-first and build-oriented.
+- The page shows schematic screen blueprints rather than pretending to show finished production screens.
+
+Mobile:
+
+- The layout collapses to one column at 390px.
+- Token cards, source cards, screen sketches, and screen library cards remain inside the viewport.
+- No obvious horizontal overflow is visible in the captured screenshot.
+- The mobile page is long, but this is acceptable for a reference report.
+
+## Language Review
+
+Cleaned in this pass:
+
+- Rewrote the visible screen cards from English-heavy implementation text into Hebrew owner-facing descriptions.
+- Kept route names, file names, brand names, and product names where they identify a real artifact or external reference.
+- Avoided presenting schematic blocks as real assets.
+
+## Limitations
+
+- This is a design specification and screen blueprint, not a production WordPress implementation.
+- It does not solve the live public-site trust blockers.
+- It does not provide final legal approval for brand name, paid placement language, tax language, finance language, or professional verification claims.
+- It does not replace real contractor-supplied assets for project pages and showrooms.
+
+## Verdict
+
+The design-system gap is materially reduced. The war room now has a build-ready screen library and visual reference page that can guide the homepage, listings, project, showroom, professionals, tools, international, contractor intake, and admin war-room builds.
+

diff --git a/strategy/war-room/README.md b/strategy/war-room/README.md
@@ -5,6 +5,8 @@ This folder contains the current owner-facing build specification slice.
 Primary owner-facing artifacts:
 
 - `owner-output-index-rtl.html` - Hebrew RTL index for the current execution layer, with links to the key specs, CSVs, evidence, workbook, and screenshot references.
+- `design-system-screen-library-rtl.html` - Hebrew RTL design-system and screen-library report with tokens, product references, and 12 build surfaces.
+- `design-system-screen-library-visual-qa.md` - screenshot review note for the design-system screen library.
 - `objective-completion-audit-rtl.html` - Hebrew RTL audit against the full war-room objective, showing what is proven, partial, or still missing.
 - `current-site-evidence-2026-06-23-rtl.html` - Hebrew RTL summary of the fresh live public-site screenshot run from 2026-06-23.
 - `current-site-and-objective-audit-visual-qa.md` - screenshot review note for the fresh public evidence and objective audit.
@@ -16,6 +18,9 @@ Structured artifacts:
 - `master-war-room-execution-spec.md` - execution-level source of truth connecting strategy, evidence, SEO ownership, UX, showroom, backlog, and next steps.
 - `page-architecture-map.csv` - canonical URL/page-role map for money and support pages.
 - `ux-build-spec.csv` - build-level UX requirements for homepage, listings, projects, professionals, tools, trust, and international investor surfaces.
+- `design-system-screen-library.csv` - structured screen library for brand, homepage, listings, projects, showroom, professionals, tools, international, contractor intake, and admin war room.
+- `design-system-screen-library.md` - detailed design system and implementation gate narrative.
+- `lovable-design-validation-prompt.md` - controlled no-spend prompt to use only if the owner chooses another Lovable review.
 - `keyword-to-page-owner.csv` - one canonical owner for every keyword row from the recovered Report 2 keyword universe.
 - `current-evidence-register.csv` - evidence, limitations, and next verification actions.
 - `current-site-evidence-2026-06-23.csv` - row-level summary of the fresh public screenshot run.
